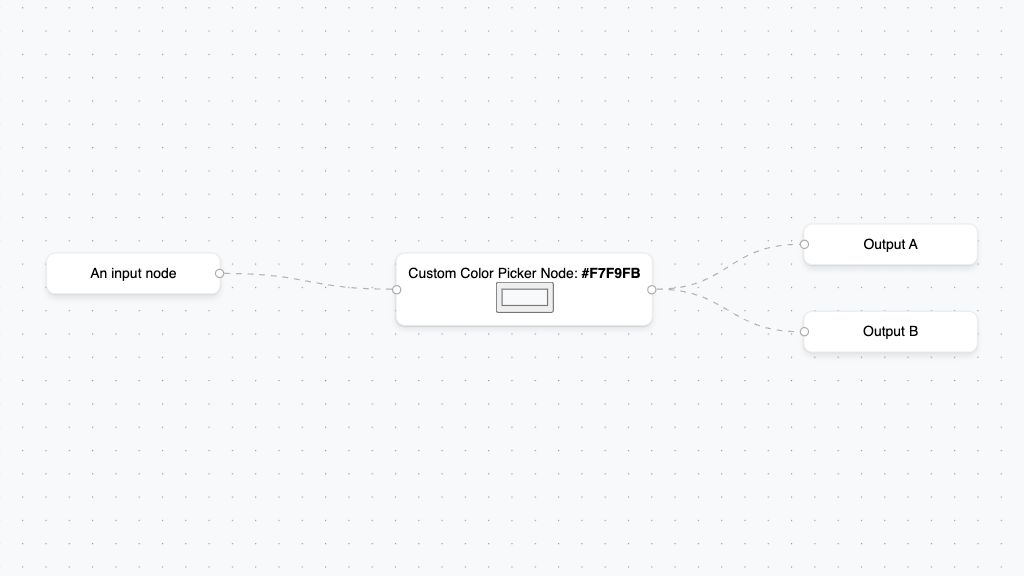
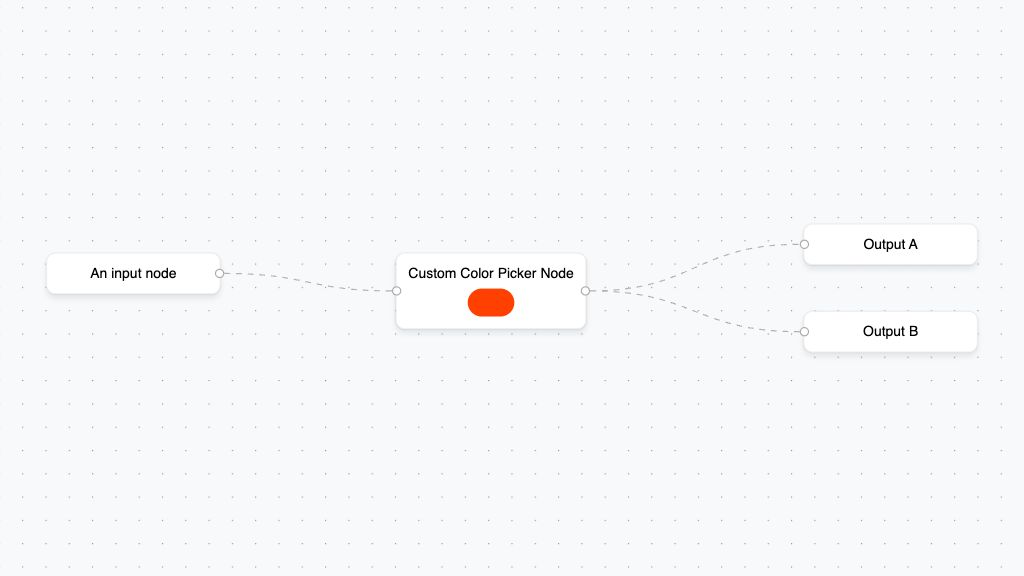
improve custom nodes example

Changed region(s): [[0.4375, 0.4375, 0.625, 0.5625], [0.625, 0.5, 0.6562, 0.5312]]

diff --git a/apps/example-apps/react/examples/nodes/custom-node/App.jsx b/apps/example-apps/react/examples/nodes/custom-node/App.jsx
@@ -4,15 +4,17 @@ import {
   useNodesState,
   useEdgesState,
   addEdge,
+  Background,
   MiniMap,
   Controls,
+  Panel,
 } from '@xyflow/react';
 
 import '@xyflow/react/dist/style.css';
 
 import ColorSelectorNode from './ColorSelectorNode';
 
-const initBgColor = '#c9f1dd';
+const initColor = '#ff0071';
 
 const snapGrid = [20, 20];
 const nodeTypes = {
@@ -24,7 +26,7 @@ const defaultViewport = { x: 0, y: 0, zoom: 1.5 };
 const CustomNodeFlow = () => {
   const [nodes, setNodes, onNodesChange] = useNodesState([]);
   const [edges, setEdges, onEdgesChange] = useEdgesState([]);
-  const [bgColor, setBgColor] = useState(initBgColor);
+  const [selectedColor, setSelectedColor] = useState(initColor);
 
   useEffect(() => {
     const onChange = (event) => {
@@ -36,7 +38,7 @@ const CustomNodeFlow = () => {
 
           const color = event.target.value;
 
-          setBgColor(color);
+          setSelectedColor(color);
 
           return {
             ...node,
@@ -60,7 +62,7 @@ const CustomNodeFlow = () => {
       {
         id: '2',
         type: 'selectorNode',
-        data: { onChange: onChange, color: initBgColor },
+        data: { onChange: onChange, color: initColor },
         position: { x: 300, y: 50 },
       },
       {
@@ -113,7 +115,6 @@ const CustomNodeFlow = () => {
       onNodesChange={onNodesChange}
       onEdgesChange={onEdgesChange}
       onConnect={onConnect}
-      style={{ background: bgColor }}
       nodeTypes={nodeTypes}
       snapToGrid={true}
       snapGrid={snapGrid}
@@ -121,18 +122,39 @@ const CustomNodeFlow = () => {
       fitView
       attributionPosition="bottom-left"
     >
-      <MiniMap
-        nodeStrokeColor={(n) => {
-          if (n.type === 'input') return '#0041d0';
-          if (n.type === 'selectorNode') return bgColor;
-          if (n.type === 'output') return '#ff0072';
-        }}
-        nodeColor={(n) => {
-          if (n.type === 'selectorNode') return bgColor;
-          return '#fff';
-        }}
-      />
+      <Background />
+      <MiniMap />
       <Controls />
+      <Panel position="top-right">
+        <div
+          style={{
+            display: 'flex',
+            alignItems: 'center',
+            gap: 8,
+            padding: '8px 12px',
+            borderRadius: 8,
+            background: 'var(--xy-controls-button-background-color, #fff)',
+            border: '1px solid var(--xy-controls-button-border-color, #ddd)',
+          }}
+        >
+          <div
+            aria-hidden="true"
+            style={{
+              width: 16,
+              height: 16,
+              borderRadius: '999px',
+              background: selectedColor,
+              border: '1px solid rgba(0, 0, 0, 0.2)',
+            }}
+          />
+          <span>
+            Selected color:{' '}
+            <code style={{ fontFamily: 'monospace', fontVariantNumeric: 'tabular-nums' }}>
+              {selectedColor}
+            </code>
+          </span>
+        </div>
+      </Panel>
     </ReactFlow>
   );
 };

diff --git a/apps/example-apps/svelte/examples/nodes/custom-node/App.svelte b/apps/example-apps/svelte/examples/nodes/custom-node/App.svelte
@@ -1,8 +1,8 @@
 <script module>
-  class BgColor {
-    current = $state('#F7F9FB');
+  class SelectedColor {
+    current = $state('#ff4000');
   }
-  export const bgColor = new BgColor();
+  export const selectedColor = new SelectedColor();
 </script>
 
 <script lang="ts">
@@ -10,6 +10,7 @@
     SvelteFlow,
     Controls,
     MiniMap,
+    Panel,
     Position,
     type Node,
     type Edge,
@@ -77,12 +78,43 @@
 
   let nodes = $state.raw<Node[]>(initialNodes);
   let edges = $state.raw<Edge[]>(initialEdges);
-
-  $inspect(bgColor.current);
 </script>
 
 <SvelteFlow bind:nodes bind:edges {nodeTypes} fitView colorMode="system">
-  <Background bgColor={bgColor.current} />
+  <Background />
   <Controls />
   <MiniMap />
+  <Panel position="top-right">
+    <div class="color-panel">
+      <div class="color-swatch" style:background={selectedColor.current}></div>
+      <span>
+        Selected color:
+        <code class="color-value">{selectedColor.current}</code>
+      </span>
+    </div>
+  </Panel>
 </SvelteFlow>
+
+<style>
+  .color-panel {
+    display: flex;
+    align-items: center;
+    gap: 8px;
+    padding: 8px 12px;
+    border: 1px solid var(--xy-controls-button-border-color, #ddd);
+    border-radius: 8px;
+    background: var(--xy-controls-button-background-color, #fff);
+  }
+
+  .color-swatch {
+    width: 16px;
+    height: 16px;
+    border: 1px solid rgba(0, 0, 0, 0.2);
+    border-radius: 999px;
+  }
+
+  .color-value {
+    font-family: monospace;
+    font-variant-numeric: tabular-nums;
+  }
+</style>

diff --git a/apps/example-apps/svelte/examples/nodes/custom-node/ColorSelectorNode.svelte b/apps/example-apps/svelte/examples/nodes/custom-node/ColorSelectorNode.svelte
@@ -1,13 +1,11 @@
 <script lang="ts">
   import { Handle, Position, type NodeProps } from '@xyflow/svelte';
-  import { bgColor } from './App.svelte';
+  import { selectedColor } from './App.svelte';
 
   let { isConnectable }: NodeProps = $props();
 </script>
 
 <Handle type="target" position={Position.Left} {isConnectable} />
-<div>
-  Custom Color Picker Node: <strong>{bgColor.current}</strong>
-</div>
-<input class="nodrag" type="color" bind:value={bgColor.current} />
+<div>Custom Color Picker Node</div>
+<input class="nodrag color-input" type="color" bind:value={selectedColor.current} />
 <Handle type="source" position={Position.Right} {isConnectable} />

diff --git a/apps/example-apps/react/examples/nodes/custom-node/ColorSelectorNode.jsx b/apps/example-apps/react/examples/nodes/custom-node/ColorSelectorNode.jsx
@@ -10,14 +10,13 @@ export default memo(({ data, isConnectable }) => {
         onConnect={(params) => console.log('handle onConnect', params)}
         isConnectable={isConnectable}
       />
-      <div>
-        Custom Color Picker Node: <strong>{data.color}</strong>
-      </div>
+      <div>Custom Color Picker Node</div>
       <input
-        className="nodrag"
+        className="nodrag color-input"
         type="color"
+        value={data.color}
         onChange={data.onChange}
-        defaultValue={data.color}
+        aria-label="Select node color"
       />
       <Handle
         type="source"

diff --git a/apps/example-apps/react/examples/nodes/custom-node/index.css b/apps/example-apps/react/examples/nodes/custom-node/index.css
@@ -11,3 +11,28 @@ body {
   width: 100vw;
   height: 100vh;
 }
+
+.color-input {
+  width: 40px;
+  height: 24px;
+  margin-top: 6px;
+  padding: 0;
+  border: 0;
+  background: transparent;
+  appearance: none;
+  cursor: pointer;
+}
+
+.color-input::-webkit-color-swatch-wrapper {
+  padding: 0;
+}
+
+.color-input::-webkit-color-swatch {
+  border: 0;
+  border-radius: 999px;
+}
+
+.color-input::-moz-color-swatch {
+  border: 0;
+  border-radius: 999px;
+}

diff --git a/apps/example-apps/svelte/examples/nodes/custom-node/index.css b/apps/example-apps/svelte/examples/nodes/custom-node/index.css
@@ -10,3 +10,28 @@ body {
   width: 100vw;
   height: 100vh;
 }
+
+.color-input {
+  width: 40px;
+  height: 24px;
+  margin-top: 6px;
+  padding: 0;
+  border: 0;
+  background: transparent;
+  appearance: none;
+  cursor: pointer;
+}
+
+.color-input::-webkit-color-swatch-wrapper {
+  padding: 0;
+}
+
+.color-input::-webkit-color-swatch {
+  border: 0;
+  border-radius: 999px;
+}
+
+.color-input::-moz-color-swatch {
+  border: 0;
+  border-radius: 999px;
+}
